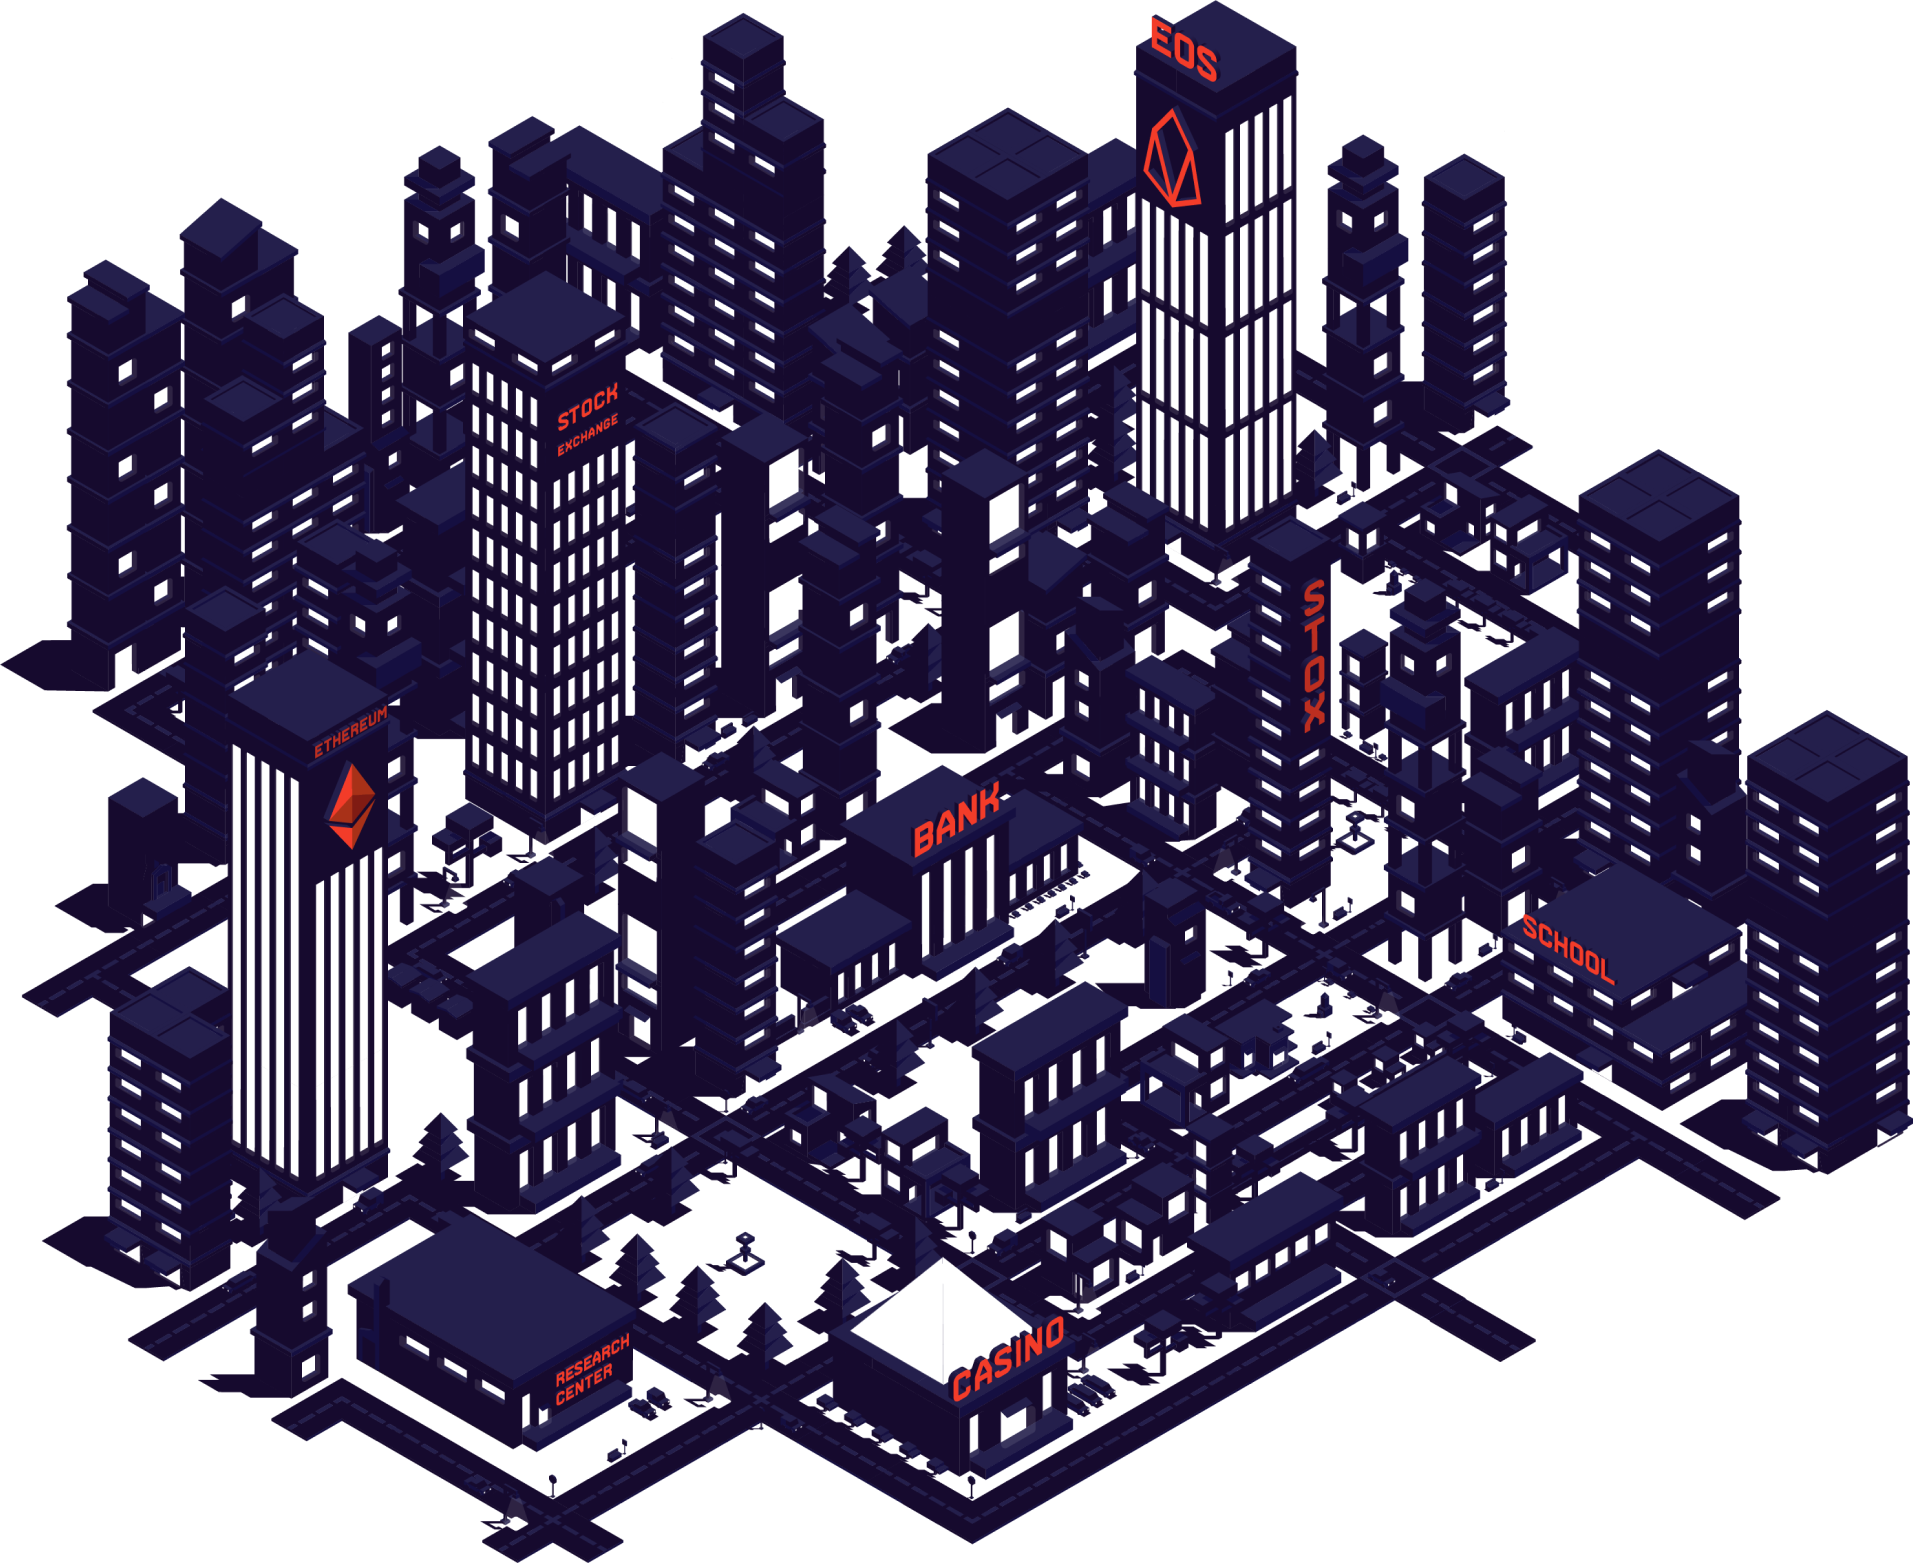
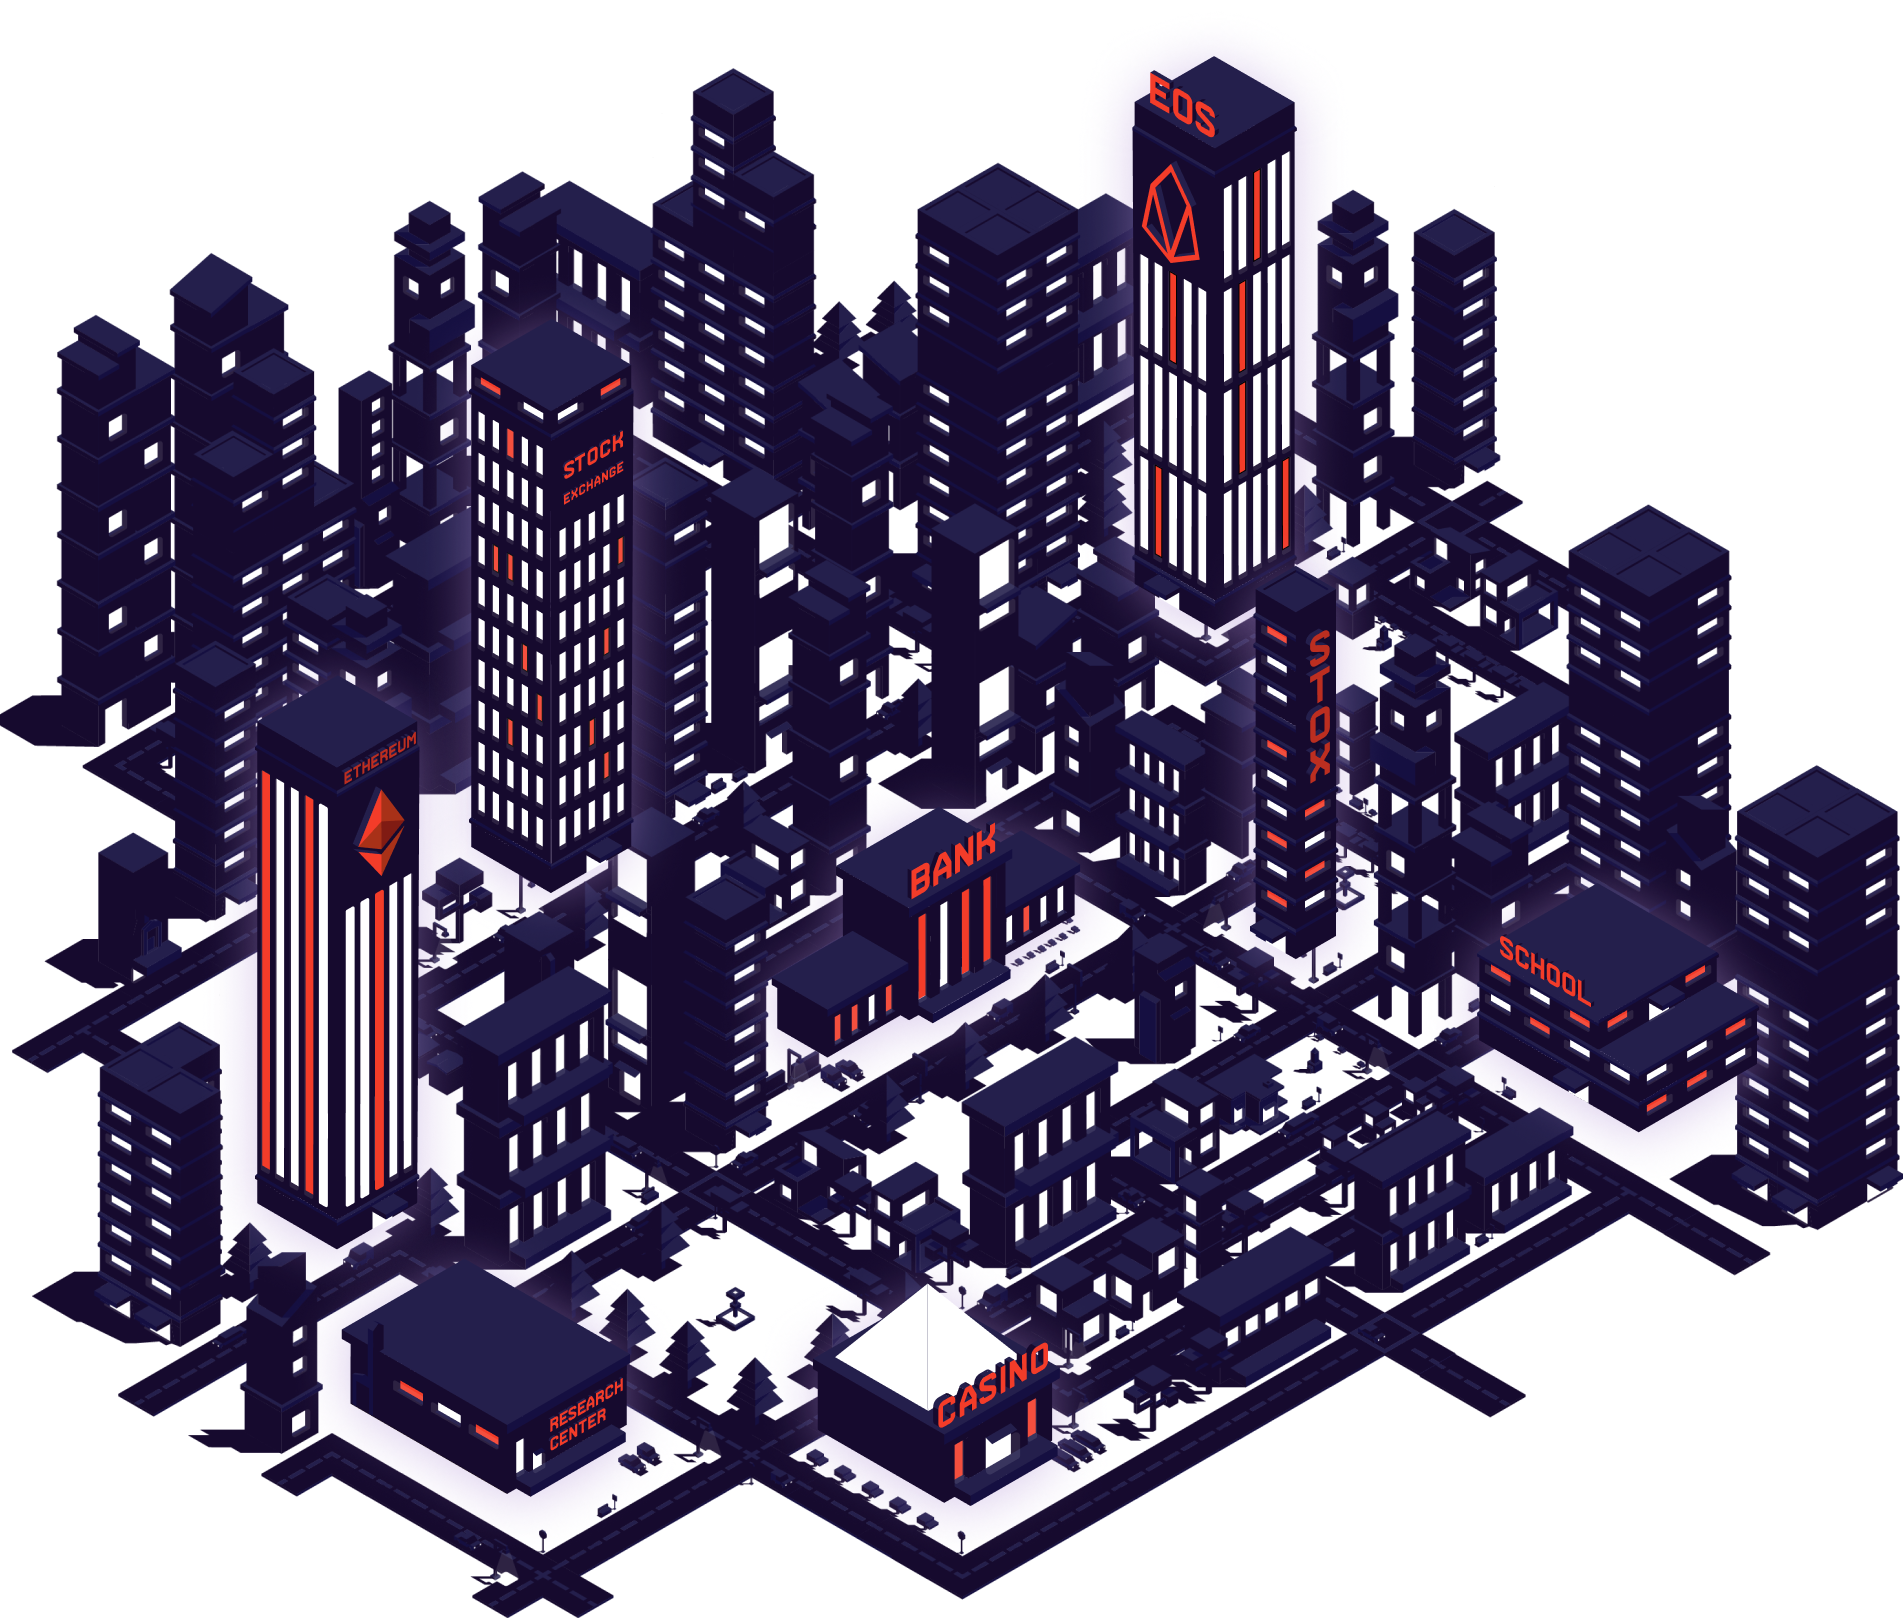
city scene change

diff --git a/src/components/City.js b/src/components/City.js
@@ -41,14 +41,14 @@ export default class City extends Component {
     city_map = {
         name: "city_map",
         areas: [
-            { shape: "poly", coords: [464, 794, 545, 843, 619, 796, 618, 777, 624, 769, 621, 314, 543, 269, 467, 314] },//stock
-            { shape: "poly", coords: [231, 689, 307, 644, 386, 696, 388, 1173, 315, 1213, 315, 1198, 297, 1191, 237, 1144] },//eterium
-            { shape: "poly", coords: [778, 934, 783, 988, 831, 1010, 902, 972, 924, 968, 935, 978, 1013, 936, 1008, 909, 1077, 872, 1075, 809, 1021, 779, 1000, 775, 980, 782, 943, 765, 845, 819, 848, 890] },//bank
-            { shape: "poly", coords: [1136, 46, 1147, 35, 1147, 8, 1177, 19, 1214, 0, 1297, 46, 1295, 510, 1250, 534, 1246, 554, 1216, 568, 1165, 541, 1167, 504, 1135, 480, 1135, 52] },//eos
-            { shape: "poly", coords: [1251, 536, 1290, 515, 1327, 541, 1329, 884, 1292, 904, 1251, 882] },//stox
-            { shape: "poly", coords: [356, 1298, 349, 1284, 464, 1215, 633, 1308, 628, 1382, 633, 1397, 542, 1450, 521, 1445, 511, 1448, 357, 1360] },//research
-            { shape: "poly", coords: [834, 1399, 831, 1330, 898, 1291, 942, 1255, 1038, 1320, 1067, 1308, 1069, 1337, 1075, 1339, 1068, 1356, 1066, 1414, 1074, 1428, 984, 1479, 973, 1467, 959, 1473] },//casino
-            { shape: "poly", coords: [1503, 1017, 1500, 928, 1616, 862, 1741, 933, 1740, 958, 1748, 967, 1747, 1059, 1664, 1108] },//school
+            { shape: "poly", coords: [470,848,470,365,549,315,633,365,635,846,547,895] },//stock
+            { shape: "poly", coords: [256,1204,256,720,332,671,418,722,418,1201,337,1251] },//eterium
+            { shape: "poly", coords: [828,1058,772,1024,771,976,836,933,835,868,939,804,978,824,999,816,1004,841,1021,831,1082,866,1082,912,1009,954,1013,977,932,1024,904,1018] },//bank
+            { shape: "poly", coords: [1132,584,1131,101,1146,91,1147,64,1173,76,1215,52,1294,99,1294,565,1252,587,1252,607,1213,627] },//eos
+            { shape: "poly", coords: [1252,930,1250,584,1294,562,1337,589,1336,937,1297,959] },//stox
+            { shape: "poly", coords: [342,1399,342,1327,463,1256,631,1352,630,1426,628,1441,535,1497,517,1488,505,1494] },//research
+            { shape: "poly", coords: [814,1431,813,1352,880,1317,927,1282,1021,1349,1043,1337,1053,1347,1053,1361,1062,1377,1052,1384,1053,1435,1060,1451,973,1505,956,1497,944,1505] },//casino
+            { shape: "poly", coords: [1479,1039,1477,949,1596,880,1721,954,1714,979,1761,1004,1758,1063,1640,1134] },//school
         ]
     }
 
